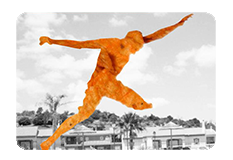
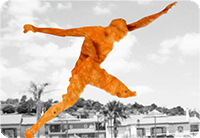
changed pngs to jpgs

diff --git a/final/design.html b/final/design.html
@@ -12,7 +12,7 @@
 		</script>
 </head>
 <body>
-<img id="logo" src="webimages/logo.png" alt="logo"/> <header><h1>Maria Cesilia Lauer Art and Design</h1></header>
+<img id="logo" src="webimages/logo.jpg" alt="logo"/> <header><h1>Maria Cesilia Lauer Art and Design</h1></header>
 
 	<nav id='top'>
 	<ul>
@@ -27,30 +27,30 @@
 <p>Most Recent Work</p></section>
 
 <section class ="gallery">
-<a href="webimages/jazz1.jpg" target="Sabby"><img src="webimages/design1.png" alt="Sabby"/></a>
-<a href="webimages/jazz2.jpg" target="Sabby"><img src="webimages/design2.png" alt="Sabby"/></a>
-<a href="webimages/park1.png" target="park"><img src="webimages/design3.png" alt="park"/></a>
-<a href="webimages/park2.png" target="park"><img src="webimages/design4.png" alt="park"/></a>
-<a href="webimages/park3.png" target="park"><img src="webimages/design5.png" alt="park"/></a>
+<a href="webimages/jazz1.jpg" target="Sabby"><img src="webimages/design1.jpg" alt="Sabby"/></a>
+<a href="webimages/jazz2.jpg" target="Sabby"><img src="webimages/design2.jpg" alt="Sabby"/></a>
+<a href="webimages/park1.jpg" target="park"><img src="webimages/design3.jpg" alt="park"/></a>
+<a href="webimages/park2.jpg" target="park"><img src="webimages/design4.jpg" alt="park"/></a>
+<a href="webimages/park3.jpg" target="park"><img src="webimages/design5.jpg" alt="park"/></a>
 </section>
 
 <section class="label">
 <p>2010-Present</p></section>
 
 <section class ="gallery">
-<a href="webimages/scary.jpg" target="horror"><img src="webimages/design6.png" alt="horror"/></a>
-<a href="webimages/gothic.jpg" target="itcgothic"><img src="webimages/design7.png" alt="itcgothic"/></a>
-<a href="webimages/serifa.jpg" target="serifa"><img src="webimages/design8.png" alt="serifa"/></a>
-<a href="webimages/sick.png" target="sick"><img src="webimages/design9.png" alt="sick"/></a>
-<a href="webimages/stamps.jpg" target="stamps"><img src="webimages/design10.png" alt="stamps"/></a>
-<a href="webimages/grow.png" target="grow"><img src="webimages/design11.png" alt="grow"/></a>
-<a href="webimages/cityharvest.jpg" target="cityharvest"><img src="webimages/design12.png" alt="cityharvest"/></a>
-<a href="webimages/dorito1.jpg" target="doritos"><img src="webimages/design13.png" alt="doritos"/></a>
-<a href="webimages/dorito2.jpg" target="doritos"><img src="webimages/design14.png" alt="doritos"/></a>
-<a href="webimages/dorito3.jpg" target="doritos"><img src="webimages/design15.png" alt="doritos"/></a>
-<a href="webimages/train.png" target="train"><img src="webimages/design16.png" alt="train"/></a>
-<a href="webimages/spark.jpg" target="sparktruck"><img src="webimages/design17.png" alt="sparktruck"/></a>
-<a href="webimages/dance.png" target="dance"><img src="webimages/design18.png" alt="dance"/></a>
+<a href="webimages/scary.jpg" target="horror"><img src="webimages/design6.jpg" alt="horror"/></a>
+<a href="webimages/gothic.jpg" target="itcgothic"><img src="webimages/design7.jpg" alt="itcgothic"/></a>
+<a href="webimages/serifa.jpg" target="serifa"><img src="webimages/design8.jpg" alt="serifa"/></a>
+<a href="webimages/sick.jpg" target="sick"><img src="webimages/design9.jpg" alt="sick"/></a>
+<a href="webimages/stamps.jpg" target="stamps"><img src="webimages/design10.jpg" alt="stamps"/></a>
+<a href="webimages/grow.jpg" target="grow"><img src="webimages/design11.jpg" alt="grow"/></a>
+<a href="webimages/cityharvest.jpg" target="cityharvest"><img src="webimages/design12.jpg" alt="cityharvest"/></a>
+<a href="webimages/dorito1.jpg" target="doritos"><img src="webimages/design13.jpg" alt="doritos"/></a>
+<a href="webimages/dorito2.jpg" target="doritos"><img src="webimages/design14.jpg" alt="doritos"/></a>
+<a href="webimages/dorito3.jpg" target="doritos"><img src="webimages/design15.jpg" alt="doritos"/></a>
+<a href="webimages/train.jpg" target="train"><img src="webimages/design16.jpg" alt="train"/></a>
+<a href="webimages/spark.jpg" target="sparktruck"><img src="webimages/design17.jpg" alt="sparktruck"/></a>
+<a href="webimages/dance.jpg" target="dance"><img src="webimages/design18.jpg" alt="dance"/></a>
 
 
 </section>
@@ -64,11 +64,11 @@
 
 <footer>
 
-<a href="http://www.facebook.com/MCLart" target="MCLart"><img src="webimages/facebook.png" alt="facebook"/></a>
+<a href="http://www.facebook.com/MCLart" target="MCLart"><img src="webimages/facebook.jpg" alt="facebook"/></a>
 
-<a href="http://www.mclauerart.tumblr.com" target="MCLart"><img src="webimages/tumblr.png" alt="tumblr"/></a>
+<a href="http://www.mclauerart.tumblr.com" target="MCLart"><img src="webimages/tumblr.jpg" alt="tumblr"/></a>
 
-<a href="mailto:marialauer916@gmail.com" target="Gmail"><img src="webimages/email.png" alt="email"/></a></footer>
+<a href="mailto:marialauer916@gmail.com" target="Gmail"><img src="webimages/email.jpg" alt="email"/></a></footer>
 
 
 

diff --git a/final/fineart.html b/final/fineart.html
@@ -27,35 +27,35 @@
 <p>Most Recent Work</p></section>
 
 <section class ="gallery">
-<a href="webimages/owl.png" target="owl"><img src="webimages/fineart1.png" alt="owl"/></a>
-<a href="webimages/lynx.jpg" target="lynx"><img src="webimages/fineart2.png" alt="lynx"/></a>
-<a href="webimages/bride.jpg" target="bride"><img src="webimages/fineart3.png" alt="bride"/></a>
+<a href="webimages/owl.jpg" target="owl"><img src="webimages/fineart1.jpg" alt="owl"/></a>
+<a href="webimages/lynx.jpg" target="lynx"><img src="webimages/fineart2.jpg" alt="lynx"/></a>
+<a href="webimages/bride.jpg" target="bride"><img src="webimages/fineart3.jpg" alt="bride"/></a>
 </section>
 
 <section class="label">
 <p>2011-2013</p></section>
 
 <section class ="gallery">
-<a href="webimages/trumpet.jpg" target="trumpet"><img src="webimages/fineart4.png" alt="trumpet"/></a>
-<a href="webimages/rose.jpg" target="rose"><img src="webimages/fineart5.png" alt="rose"/></a>
-<a href="webimages/dominic.jpg" target="dominic"><img src="webimages/fineart6.png" alt="dominic"/></a>
-<a href="webimages/dog.jpg" target="dog"><img src="webimages/fineart7.png" alt="dog"/></a>
-<a href="webimages/mask.jpg" target="mask"><img src="webimages/fineart8.png" alt="mask"/></a>
+<a href="webimages/trumpet.jpg" target="trumpet"><img src="webimages/fineart4.jpg" alt="trumpet"/></a>
+<a href="webimages/rose.jpg" target="rose"><img src="webimages/fineart5.jpg" alt="rose"/></a>
+<a href="webimages/dominic.jpg" target="dominic"><img src="webimages/fineart6.jpg" alt="dominic"/></a>
+<a href="webimages/dog.jpg" target="dog"><img src="webimages/fineart7.jpg" alt="dog"/></a>
+<a href="webimages/mask.jpg" target="mask"><img src="webimages/fineart8.jpg" alt="mask"/></a>
 </section>
 
 <section class="label">
 <p>2008-2010</p></section>
 
 <section class ="gallery">
-<a href="webimages/davyjones.jpg" target="davyjones"><img src="webimages/fineart9.png" alt="davyjones"/></a>
-<a href="webimages/chucky.jpg" target="chucky"><img src="webimages/fineart10.png" alt="chucky"/></a>
-<a href="webimages/viola.jpg" target="viola"><img src="webimages/fineart11.png" alt="viola"/></a>
-<a href="webimages/hatter.jpg" target="hatter"><img src="webimages/fineart12.png" alt="hatter"/></a>
-<a href="webimages/turtle.jpg" target="turtle"><img src="webimages/fineart13.png" alt="turtle"/></a>
-<a href="webimages/self.jpg" target="self"><img src="webimages/fineart14.png" alt="self"/></a>
-<a href="webimages/rabbit.jpg" target="rabbit"><img src="webimages/fineart15.png" alt="rabbit"/></a>
-<a href="webimages/trombone.jpg" target="trombone"><img src="webimages/fineart16.png" alt="trombone"/></a>
-<a href="webimages/dolls.jpg" target="dolls"><img src="webimages/fineart17.png" alt="dolls"/></a>
+<a href="webimages/davyjones.jpg" target="davyjones"><img src="webimages/fineart9.jpg" alt="davyjones"/></a>
+<a href="webimages/chucky.jpg" target="chucky"><img src="webimages/fineart10.jpg" alt="chucky"/></a>
+<a href="webimages/viola.jpg" target="viola"><img src="webimages/fineart11.jpg" alt="viola"/></a>
+<a href="webimages/hatter.jpg" target="hatter"><img src="webimages/fineart12.jpg" alt="hatter"/></a>
+<a href="webimages/turtle.jpg" target="turtle"><img src="webimages/fineart13.jpg" alt="turtle"/></a>
+<a href="webimages/self.jpg" target="self"><img src="webimages/fineart14.jpg" alt="self"/></a>
+<a href="webimages/rabbit.jpg" target="rabbit"><img src="webimages/fineart15.jpg" alt="rabbit"/></a>
+<a href="webimages/trombone.jpg" target="trombone"><img src="webimages/fineart16.jpg" alt="trombone"/></a>
+<a href="webimages/dolls.jpg" target="dolls"><img src="webimages/fineart17.jpg" alt="dolls"/></a>
 </section>
 
 
@@ -64,11 +64,11 @@
 
 
 <footer>
-<a href="http://www.facebook.com/MCLart" target="MCLart"><img src="webimages/facebook.png" alt="facebook"/></a>
+<a href="http://www.facebook.com/MCLart" target="MCLart"><img src="webimages/facebook.jpg" alt="facebook"/></a>
 
-<a href="http://www.mclauerart.tumblr.com" target="MCLart"><img src="webimages/tumblr.png" alt="tumblr"/></a>
+<a href="http://www.mclauerart.tumblr.com" target="MCLart"><img src="webimages/tumblr.jpg" alt="tumblr"/></a>
 
-<a href="mailto:marialauer916@gmail.com" target="Gmail"><img src="webimages/email.png" alt="email"/></a>
+<a href="mailto:marialauer916@gmail.com" target="Gmail"><img src="webimages/email.jpg" alt="email"/></a>
 
 </footer>
 

diff --git a/final/about.html b/final/about.html
@@ -12,7 +12,7 @@
 		</script>
 </head>
 <body>
-<img id="logo" src="webimages/logo.png" alt="logo"/> <header><h1>Maria Cesilia Lauer Art and Design</h1></header>
+<img id="logo" src="webimages/logo.jpg" alt="logo"/> <header><h1>Maria Cesilia Lauer Art and Design</h1></header>
 
 	<nav id='top'>
 	<ul>
@@ -25,7 +25,7 @@
 	
 <section>
 
-<img class="about" src="webimages/me.png" alt="me"/>
+<img class="about" src="webimages/me.jpg" alt="me"/>
 
 <h2>Artist. Designer. Musician. Chocoholic.</h2>
 
@@ -41,11 +41,11 @@
 
 
 <footer>
-<a href="http://www.facebook.com/MCLart" target="MCLart"><img src="webimages/facebook.png" alt="facebook"/></a>
+<a href="http://www.facebook.com/MCLart" target="MCLart"><img src="webimages/facebook.jpg" alt="facebook"/></a>
 
-<a href="http://www.mclauerart.tumblr.com" target="MCLart"><img src="webimages/tumblr.png" alt="tumblr"/></a>
+<a href="http://www.mclauerart.tumblr.com" target="MCLart"><img src="webimages/tumblr.jpg" alt="tumblr"/></a>
 
-<a href="mailto:marialauer916@gmail.com" target="Gmail"><img src="webimages/email.png" alt="email"/></a>
+<a href="mailto:marialauer916@gmail.com" target="Gmail"><img src="webimages/email.jpg" alt="email"/></a>
 
 </footer>
 

diff --git a/final/resume.html b/final/resume.html
@@ -12,7 +12,7 @@
 		</script>
 </head>
 <body>
-<img id="logo" src="webimages/logo.png" alt="logo"/> <header><h1>Maria Cesilia Lauer Art and Design</h1></header>
+<img id="logo" src="webimages/logo.jpg" alt="logo"/> <header><h1>Maria Cesilia Lauer Art and Design</h1></header>
 
 	<nav id='top'>
 	<ul>
@@ -35,11 +35,11 @@
 
 
 <footer>
-<a href="http://www.facebook.com/MCLart" target="MCLart"><img src="webimages/facebook.png" alt="facebook"/></a>
+<a href="http://www.facebook.com/MCLart" target="MCLart"><img src="webimages/facebook.jpg" alt="facebook"/></a>
 
-<a href="http://www.mclauerart.tumblr.com" target="MCLart"><img src="webimages/tumblr.png" alt="tumblr"/></a>
+<a href="http://www.mclauerart.tumblr.com" target="MCLart"><img src="webimages/tumblr.jpg" alt="tumblr"/></a>
 
-<a href="mailto:marialauer916@gmail.com" target="Gmail"><img src="webimages/email.png" alt="email"/></a>
+<a href="mailto:marialauer916@gmail.com" target="Gmail"><img src="webimages/email.jpg" alt="email"/></a>
 
 </footer>
 

diff --git a/final/index.html b/final/index.html
@@ -15,7 +15,7 @@
 		</script>
 </head>
 <body>
-<img id="logo" src="webimages/logo.png" alt="logo"/> <header><h1>Maria Cesilia Lauer Art and Design</h1></header>
+<img id="logo" src="webimages/logo.jpg" alt="logo"/> <header><h1>Maria Cesilia Lauer Art and Design</h1></header>
 
 <section>
 
@@ -29,11 +29,11 @@
 
 
 <footer>
-<a href="http://www.facebook.com/MCLart" target="MCLart"><img src="webimages/facebook.png" alt="facebook"/></a>
+<a href="http://www.facebook.com/MCLart" target="MCLart"><img src="webimages/facebook.jpg" alt="facebook"/></a>
 
-<a href="http://www.mclauerart.tumblr.com" target="MCLart"><img src="webimages/tumblr.png" alt="tumblr"/></a>
+<a href="http://www.mclauerart.tumblr.com" target="MCLart"><img src="webimages/tumblr.jpg" alt="tumblr"/></a>
 
-<a href="mailto:marialauer916@gmail.com" target="Gmail"><img src="webimages/email.png" alt="email"/></a>
+<a href="mailto:marialauer916@gmail.com" target="Gmail"><img src="webimages/email.jpg" alt="email"/></a>
 </footer>
 
 
